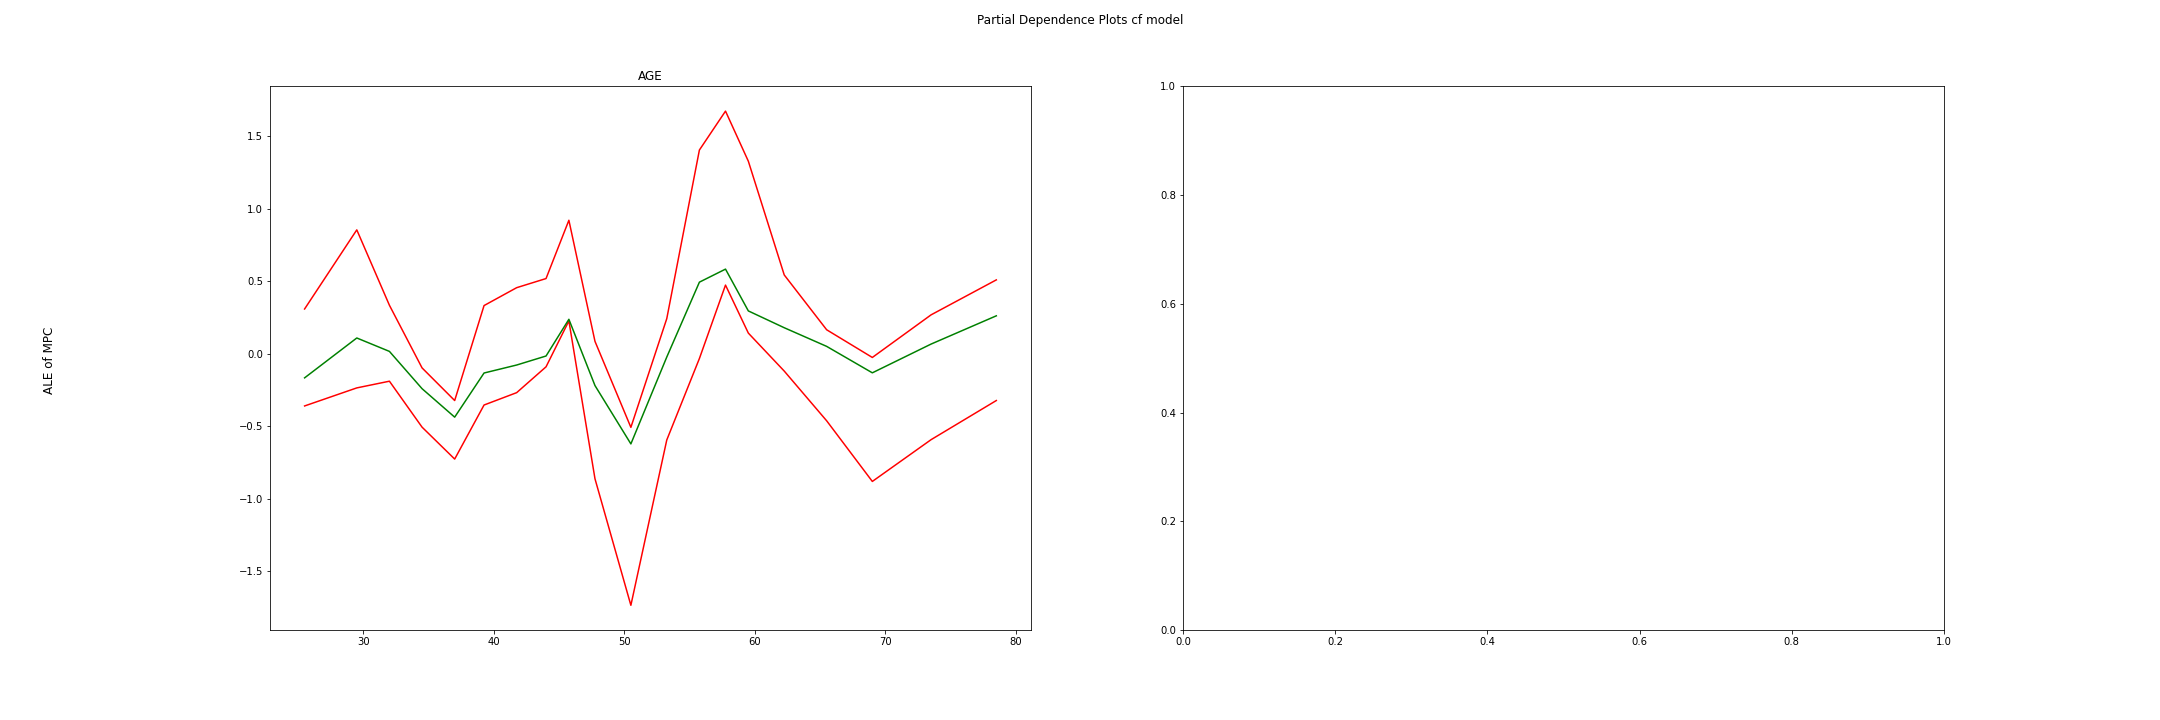
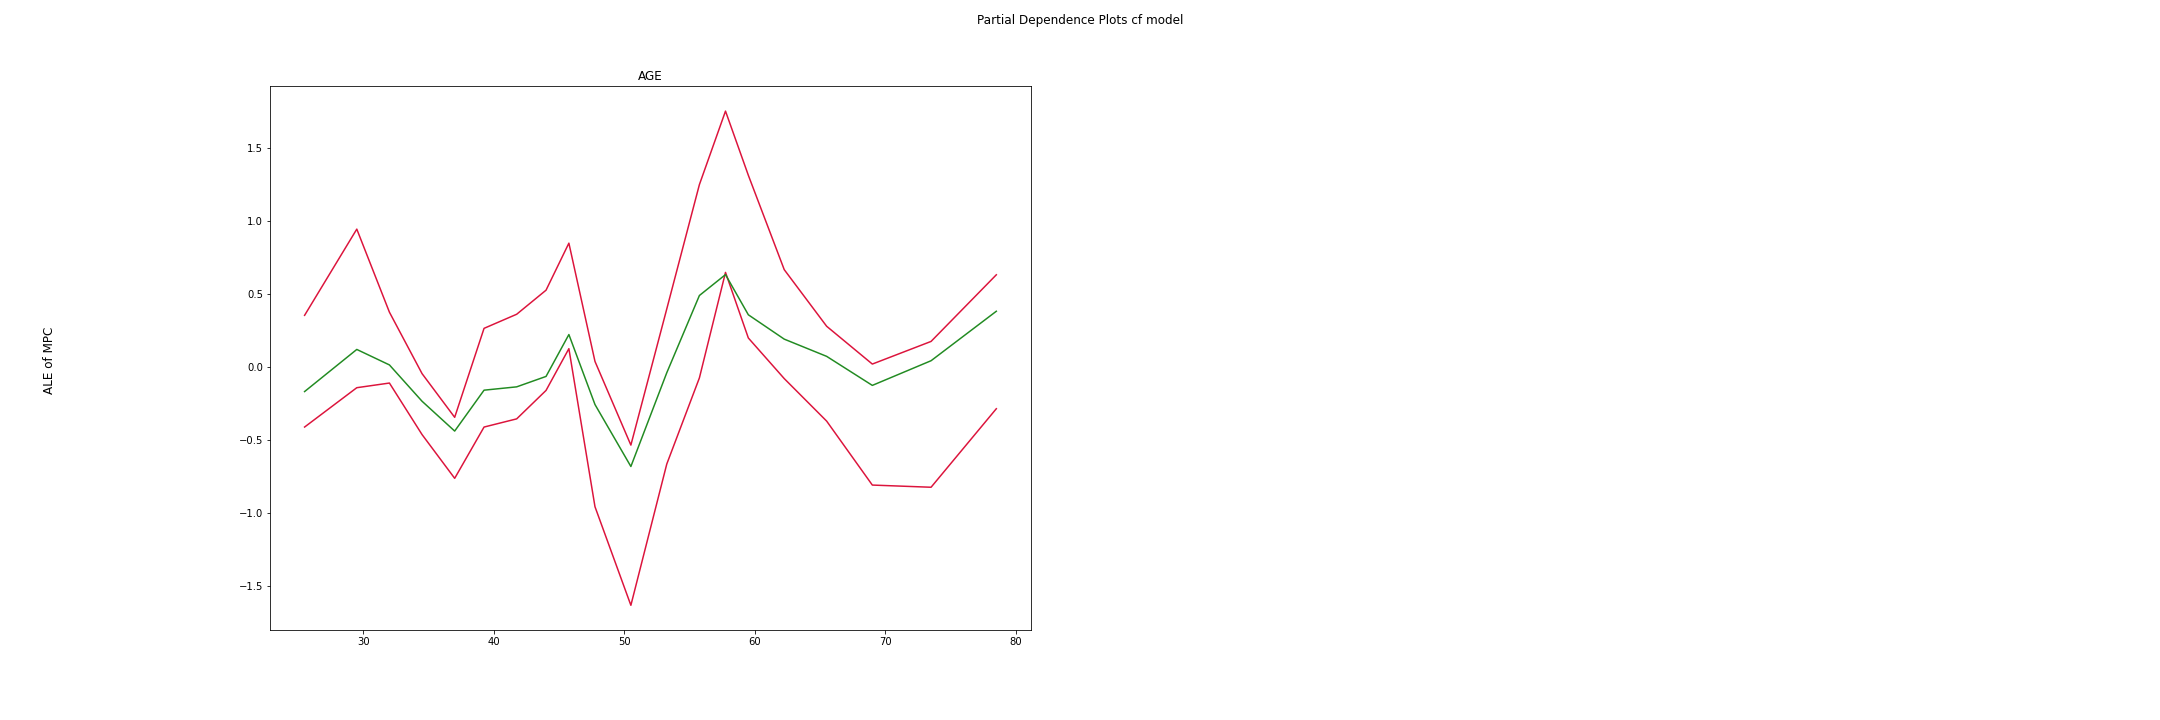
single feature ALE plots

diff --git a/src/analysis/baseline_dml/baseline_specs.py b/src/analysis/baseline_dml/baseline_specs.py
@@ -15,8 +15,8 @@ wd=Path.cwd()
 sys.path.append(str(wd.parent))
 from utils import data_utils
 from utils import fitDML
-from ALEPython.src.alepython import ale_dml
 #import ALEPython.src.alepython as ale_dml
+from ALEPython.src.alepython import ale_dml
 
 #* set data paths
 data_in=wd.parents[2]/'data'/'in'
@@ -337,12 +337,12 @@ def all_ale_plots(spec, model, bins=20,
     fig.clf()
     plt.close()
 
-def all_ale_plots_single(spec, model, bins=20,         
+def all_ale_plots_single(spec, model, specname,
+                bins=20,         
                 bootstrap=False,
-                bootstrap_samples=1000, n_sample=500, alpha=0.05, cut=1, 
-                figname='ALE'): 
+                bootstrap_samples=1000, n_sample=500, alpha=0.05, cut=1): 
     '''
-    Get single-feature ALE plots of predictor for all features in training set and save them in one figure.
+    Get single-feature ALE plots of predictor for all features in training set and save them in single figures.
     '''
     train_set=spec.x_test
     features=train_set.columns
@@ -380,32 +380,31 @@ def all_ale_plots_single(spec, model, bins=20,
                 for y, lab, col in zip(lines, labels, colors):
                     ax.plot(ale_dml._get_centres(quants), y, label=lab, color=col)
                     #ax.set_title(feat)
-                #save figure
-                plt.savefig(fig_out/'ALE'/outcome/f'{spec}_{model}_{feat}', 
-                            figname,
-                            facecolor='white')
-                print(f'{feat} end')
                 #set global legend, title and y_axis
-                fig.clf()
-                plt.close()
+                #ax.legend(labels, bbox_to_anchor=(1,0.5), loc='upper left')
+                #save figure
+                plt.savefig(fig_out/'ALE'/outcome/f'{specname}_{model}_{feat}',
+                            facecolor='white', 
+                            dpi=720)
+                print(f'{feat} end')
 
 def do_analysis(spec, specname): 
     '''
     Apply all analysis steps to spec. 
     '''
-    #* CDF 
-    cdf_name='cdf_'+specname
-    cdf_figure(spec=spec, models=[
-                                #'linear', 
-                                    'cf'
-                                ],          
-                figname=cdf_name)
-    print('CDF done')
+    # #* CDF 
+    # cdf_name='cdf_'+specname
+    # cdf_figure(spec=spec, models=[
+    #                             #'linear', 
+    #                                 'cf'
+    #                             ],          
+    #             figname=cdf_name)
+    # print('CDF done')
     #* ALE 
     #linear
-    #all_ale_plots(spec, model='linear', bins=20, bootstrap=True, bootstrap_samples=100, n_sample=spec.x_test.shape[0], figname=specname+'_linear')
+    all_ale_plots_single(spec, model='linear', specname=specname, bins=20, bootstrap=True, bootstrap_samples=100, n_sample=spec.x_test.shape[0])
     #cf
-    all_ale_plots(spec, model='cf', bins=20, bootstrap=True, bootstrap_samples=100, n_sample=spec.x_test.shape[0], figname=specname+'_cf')
+    all_ale_plots_single(spec, model='cf', specname=specname, bins=20, bootstrap=True, bootstrap_samples=100, n_sample=spec.x_test.shape[0])
     print('ALE done')
 
 #*#########################
@@ -442,10 +441,9 @@ for out in outcomes:
     print(f'{out} start!')
     #set for all specifications
     #choose treatment
-    out='chNDexp'
     treatment='RBTAMT'
     #choose outcome 
-    outcome=out
+    outcome='chNDexp'
     #set how many folds are done in second stage 
     folds=5
     #*#########################
@@ -482,10 +480,10 @@ for out in outcomes:
     #fit causal forest model
     spec1_est.fit_cfDML(params_Y=best_params_Y, params_T=best_params_R, folds=folds)
     #save marginal effect results in CSV 
-    spec1_est.cf_cate_df.to_csv(results/outcome/'cate_spec1_cf.csv')
-    #save ATE results in latex table 
-    tex_str=spec1_est.cf_ate_inf.summary().as_latex()
-    str_to_tex('spec1_cf_ate.tex', tex_str)
+    # spec1_est.cf_cate_df.to_csv(results/outcome/'cate_spec1_cf.csv')
+    # #save ATE results in latex table 
+    # tex_str=spec1_est.cf_ate_inf.summary().as_latex()
+    # str_to_tex('spec1_cf_ate.tex', tex_str)
     print('Spec 1 done')
 
     #*#########################
@@ -508,7 +506,7 @@ for out in outcomes:
 
     #* Estimation: Linear
     #fit linear model 
-    # spec2_est.fit_linear(params_Y=best_params_Y, params_T=best_params_R, folds=folds)
+    spec2_est.fit_linear(params_Y=best_params_Y, params_T=best_params_R, folds=folds)
     # #get coefficients of interaction terms in linear model
     # lin_inf_tex=spec2_est.linDML.summary().as_latex()
     # str_to_tex('lin_coefs_spec2.tex', lin_inf_tex)
@@ -519,9 +517,9 @@ for out in outcomes:
     # #* Estimation: Causal Forest 
     #fit causal forest model
     spec2_est.fit_cfDML(params_Y=best_params_Y, params_T=best_params_R, folds=folds)
-    spec2_est.cf_cate_df.to_csv(results/outcome/'cate_spec2_cf.csv')
-    tex_str=spec2_est.cf_ate_inf.summary().as_latex()
-    str_to_tex('spec2_cf_ate.tex', tex_str)
+    # spec2_est.cf_cate_df.to_csv(results/outcome/'cate_spec2_cf.csv')
+    # tex_str=spec2_est.cf_ate_inf.summary().as_latex()
+    # str_to_tex('spec2_cf_ate.tex', tex_str)
 
     print('Spec 2 done')
 
@@ -545,7 +543,7 @@ for out in outcomes:
 
     #* Estimation: Linear
     #fit linear model 
-    # spec3_est.fit_linear(params_Y=best_params_Y, params_T=best_params_R, folds=folds)
+    spec3_est.fit_linear(params_Y=best_params_Y, params_T=best_params_R, folds=folds)
     # #get coefficients of interaction terms in linear model
     # lin_inf_tex=spec3_est.linDML.summary().as_latex()
     # str_to_tex('lin_coefs_spec3.tex', lin_inf_tex)
@@ -553,32 +551,32 @@ for out in outcomes:
     # spec3_est.lin_cate_df.to_csv(results/outcome/'cate_spec3_lin.csv')
     # tex_str=spec3_est.lin_ate_inf.summary().as_latex()
     # str_to_tex('spec3_lin_ate.tex', tex_str)
-    # #* Estimation: Causal Forest 
+    #* Estimation: Causal Forest 
     #fit cf model 
     spec3_est.fit_cfDML(params_Y=best_params_Y, params_T=best_params_R, folds=folds)
-    spec3_est.cf_cate_df.to_csv(results/outcome/'cate_spec3_cf.csv')
-    tex_str=spec3_est.cf_ate_inf.summary().as_latex()
-    str_to_tex('spec3_cf_ate.tex', tex_str)
+    # spec3_est.cf_cate_df.to_csv(results/outcome/'cate_spec3_cf.csv')
+    # tex_str=spec3_est.cf_ate_inf.summary().as_latex()
+    # str_to_tex('spec3_cf_ate.tex', tex_str)
 
     print('Spec 3 done')
 
-    #*#########################
-    #! Specification 4: All financial variables
-    #*#########################
-    #spec 4 uses all financial variables (smallest sample available)
-    #* Setup
-    #choose x_cols 
-    spec4_xcols=spec3_xcols+['ORGMRTX', 'owned_m', 'notowned', 'QBLNCM1X']
-    spec4_wcols=spec3_wcols
-    #only keep relevant variables 
-    subset=variables[variables['comp_samp']==1]
-    spec4_df=subset[['custid']+[treatment, outcome]+spec4_xcols+spec4_wcols+constants]
-    spec4_df=spec4_df.dropna()
-    #set up DML class
-    spec4_est=fitDML(spec4_df, treatment, outcome, spec4_xcols)
-    #get opt parameters for first stage for setting
-    best_params_R, best_params_Y=retrieve_params(hyperparams, treatment, outcome, 'spec4')
-    print('Spec 4 is set up.')
+    # #*#########################
+    # #! Specification 4: All financial variables
+    # #*#########################
+    # #spec 4 uses all financial variables (smallest sample available)
+    # #* Setup
+    # #choose x_cols 
+    # spec4_xcols=spec3_xcols+['ORGMRTX', 'owned_m', 'notowned', 'QBLNCM1X']
+    # spec4_wcols=spec3_wcols
+    # #only keep relevant variables 
+    # subset=variables[variables['comp_samp']==1]
+    # spec4_df=subset[['custid']+[treatment, outcome]+spec4_xcols+spec4_wcols+constants]
+    # spec4_df=spec4_df.dropna()
+    # #set up DML class
+    # spec4_est=fitDML(spec4_df, treatment, outcome, spec4_xcols)
+    # #get opt parameters for first stage for setting
+    # best_params_R, best_params_Y=retrieve_params(hyperparams, treatment, outcome, 'spec4')
+    # print('Spec 4 is set up.')
 
     #* Estimation: Linear
     #fit linear model 
@@ -590,14 +588,14 @@ for out in outcomes:
     # spec4_est.lin_cate_df.to_csv(results/outcome/'cate_spec4_lin.csv')
     # tex_str=spec4_est.lin_ate_inf.summary().as_latex()
     # str_to_tex('spec4_lin_ate.tex', tex_str)
-    # #* Estimation: Causal Forest 
+    #* Estimation: Causal Forest 
     #fit cf model 
-    spec4_est.fit_cfDML(params_Y=best_params_Y, params_T=best_params_R, folds=folds)
-    spec4_est.cf_cate_df.to_csv(results/outcome/'cate_spec4_cf.csv')
-    tex_str=spec4_est.cf_ate_inf.summary().as_latex()
-    str_to_tex('spec4_cf_ate.tex', tex_str)
+    # spec4_est.fit_cfDML(params_Y=best_params_Y, params_T=best_params_R, folds=folds)
+    # spec4_est.cf_cate_df.to_csv(results/outcome/'cate_spec4_cf.csv')
+    # tex_str=spec4_est.cf_ate_inf.summary().as_latex()
+    # str_to_tex('spec4_cf_ate.tex', tex_str)
 
-    print('Spec 4 done')
+    # print('Spec 4 done')
 
     #*#########################
     #! ANALYSIS
@@ -619,8 +617,8 @@ for out in outcomes:
     do_analysis(spec3_est, 'spec3')
     print('Spec 3 done')
     #*#########
-    #! Spec 4 
-    print('Start Spec 4')
-    do_analysis(spec4_est, 'spec4')
-    print('Spec 4 done')
+    # #! Spec 4 
+    # print('Start Spec 4')
+    # do_analysis(spec4_est, 'spec4')
+    # print('Spec 4 done')
     print(f'{out} end!')
